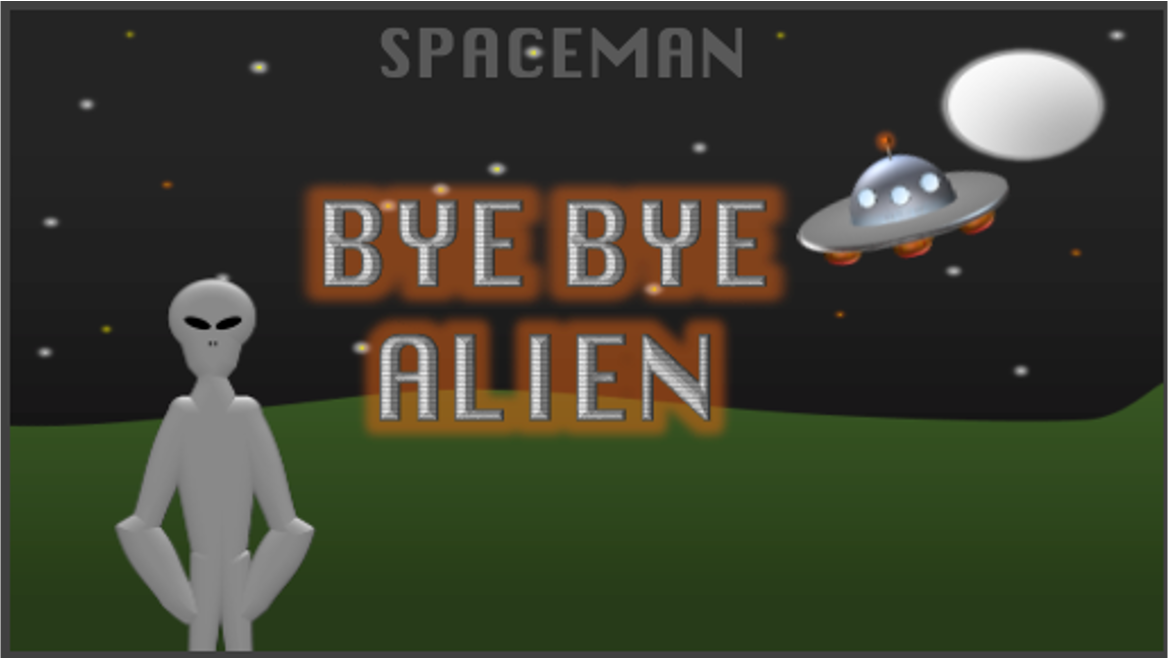
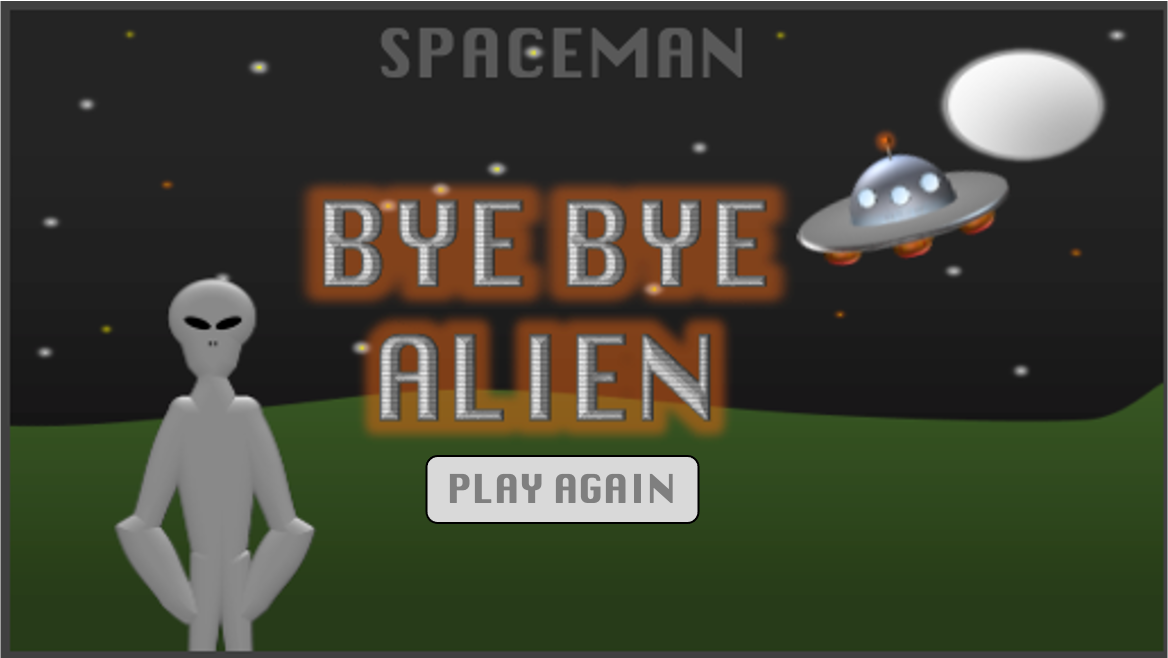
Make a play again button that reloads the page

Changed region(s): [[0.339, 0.6687, 0.6164, 0.8207]]

diff --git a/js/main.js b/js/main.js
@@ -17,7 +17,7 @@ const window2 = document.querySelector("#window2")
 const window3 = document.querySelector("#window3")
 const antenna = document.querySelector("#antenna")
 const buildButton = document.querySelector(".buildButton")
-// const playAgainButton = play again button
+const playAgainButton = document.querySelector(".byebyeAlien")
 
 // console.log(spaceship)
 
@@ -26,6 +26,7 @@ const buildButton = document.querySelector(".buildButton")
 startButton.addEventListener("click", startGame)
 buildButton.addEventListener("click", buildSpaceship)
 letters.forEach((letter)=>letter.addEventListener("click", letterClick))
+playAgainButton.addEventListener("click", resetGame)
 
 
 
@@ -88,6 +89,10 @@ function buildSpaceship(){
       }
 
 
+//Reset Game function
+function resetGame(){
+    location.reload()
+}
 //ask emily:
 //how to make these images correspond to each cluck
 

diff --git a/index.html b/index.html
@@ -50,7 +50,7 @@
         <img class="images images2 window1"  src="images/Window1.png"/>
         <img class="images images2 window2"  src="images/Window2.png"/>
         <img class="images images2 window3"  src="images/Window3.png"/>
-        <img class="images antenna"  src="images/Antenna.png"/>
+        <img class="images antenna" src="images/Antenna.png"/>
         <img class="images2 byebyeAlien"  src="images/ByebyeAlien.png"/>
     </div>
     <div>
